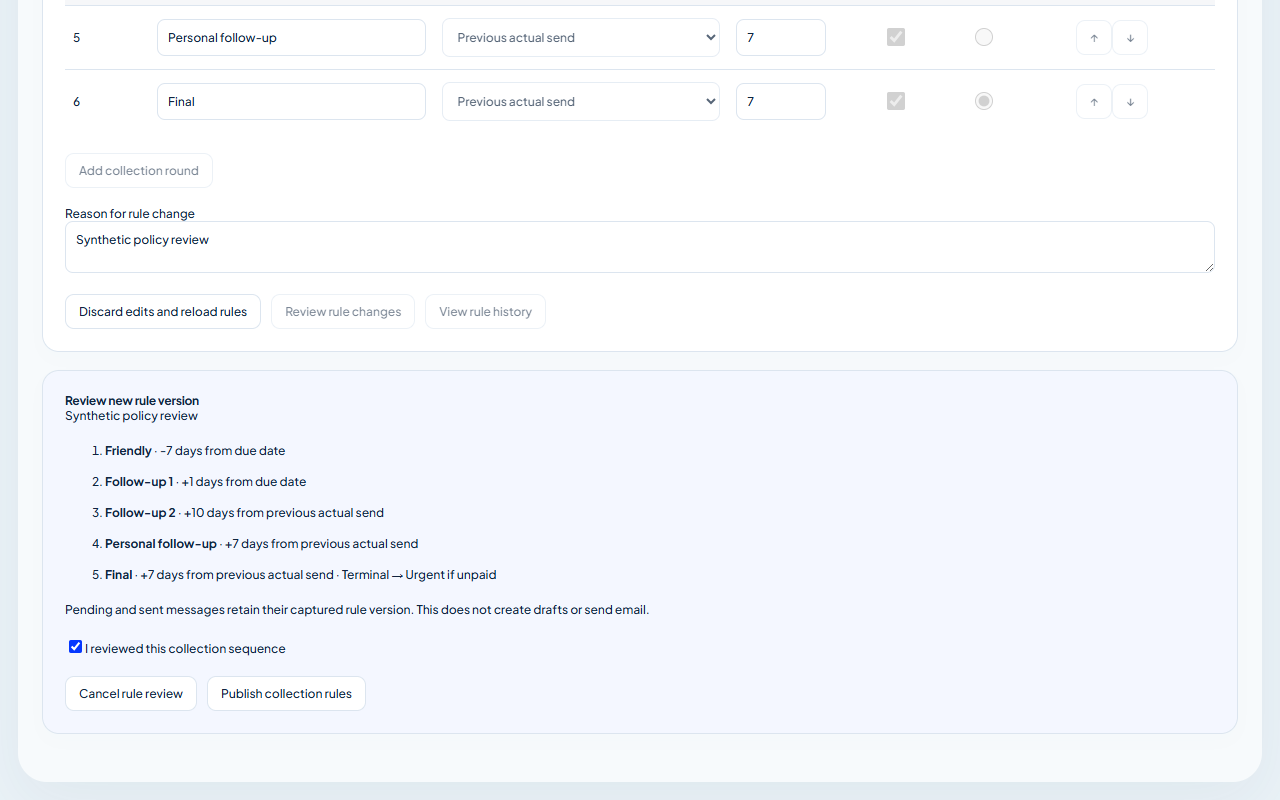
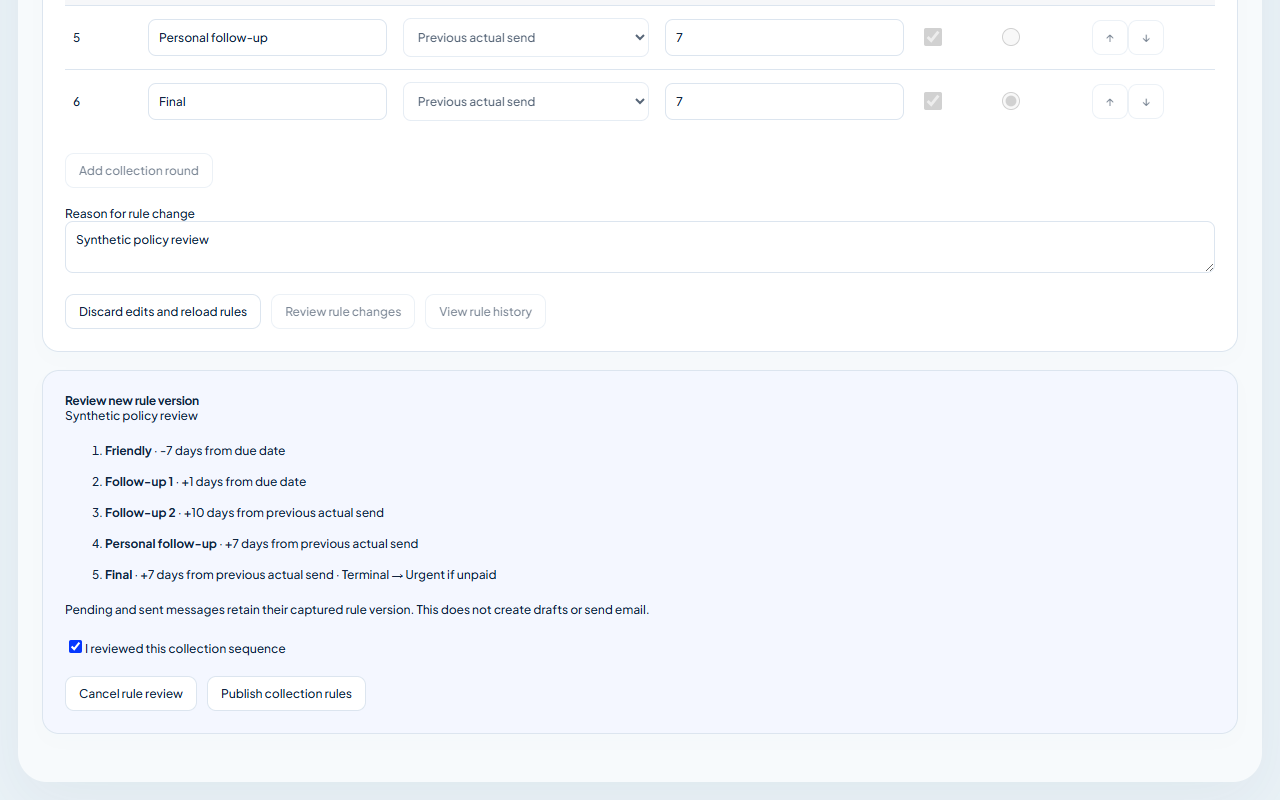
fix: preserve typed collection offsets and verify payment signs

diff --git a/src/collection/CollectionPolicySettings.tsx b/src/collection/CollectionPolicySettings.tsx
@@ -4,22 +4,23 @@ import {useCollectionPolicy} from './PolicyContext';
 import './collection-policy.css';
 export default function CollectionPolicySettings({token,onBack,onDirtyChange}:{token:string;onBack:()=>void;onDirtyChange?:(value:boolean)=>void}){
  const current=useCollectionPolicy(),[saved,setSaved]=useState<CollectionPolicy|null>(null),[rounds,setRounds]=useState<CollectionRound[]>([]),[reason,setReason]=useState(''),[error,setError]=useState(''),[status,setStatus]=useState(''),[busy,setBusy]=useState(false),[preview,setPreview]=useState<PolicyCommand|null>(null),[pending,setPending]=useState<PolicyCommand|null>(null),[confirmed,setConfirmed]=useState(false);
+ const [dayEdits,setDayEdits]=useState<Record<string,string>>({});
  const [history,setHistory]=useState<{rows:(CollectionPolicy&{reason:string;recordedAt:string})[];total:number}|null>(null),[historyPage,setHistoryPage]=useState(0);
  const auth=useRef(token);auth.current=token;const callbacks=useRef({onDirtyChange});callbacks.current={onDirtyChange};const lock=useRef(false),alive=useRef(true);
- const dirty=!!saved&&(JSON.stringify(saved.rounds)!==JSON.stringify(rounds)||!!reason.trim())||!!preview||!!pending;
+ const dirty=!!saved&&(JSON.stringify(saved.rounds)!==JSON.stringify(rounds)||Object.entries(dayEdits).some(([key,value])=>value!==String(rounds.find(r=>r.key===key)?.offsetDays))||!!reason.trim())||!!preview||!!pending;
  useEffect(()=>{callbacks.current.onDirtyChange?.(dirty);},[dirty]);useEffect(()=>{alive.current=true;return()=>{alive.current=false;callbacks.current.onDirtyChange?.(false);};},[]);
- useEffect(()=>{if(!saved&&current.policy){setSaved(current.policy);setRounds(current.policy.rounds);}},[current.policy]);
+ useEffect(()=>{if(!saved&&current.policy){setSaved(current.policy);setRounds(current.policy.rounds);setDayEdits({});}},[current.policy]);
  function change(index:number,patch:Partial<CollectionRound>){setRounds(rows=>rows.map((r,i)=>i===index?{...r,...patch}:r));setStatus('');}
  function move(index:number,step:number){const next=[...rounds],other=index+step;if(other<0||other>=next.length)return;[next[index],next[other]]=[next[other],next[index]];setRounds(next);}
  function add(){const next=[...rounds],terminal=next.findIndex(r=>r.active&&r.terminal),round:CollectionRound={key:`round_${crypto.randomUUID()}`,label:'New follow-up',anchor:'previous_sent',offsetDays:7,terminal:false,active:true};next.splice(terminal<0?next.length:terminal,0,round);setRounds(next);}
- function review(){if(!saved)return;try{parseCollectionPolicy({version:saved.version,rounds},saved);setPreview(parsePolicyCommand({commandId:crypto.randomUUID(),revision:saved.version,confirmed:true,reason,rounds}));setConfirmed(false);setError('');}catch{setError('Give each active round a unique label, keep due-date offsets increasing before follow-ups, and mark only the last active round as terminal. Enter a reason. Retire a round instead of removing its history.');}}
- async function publish(command:PolicyCommand){if(lock.current)return;lock.current=true;setBusy(true);setPending(command);setPreview(null);setError('');try{const r=await fetch('/api/collection-policy',{method:'PUT',headers:{Authorization:`Bearer ${auth.current}`,'Content-Type':'application/json'},body:JSON.stringify(command)});const value=await r.json();if(!r.ok){const code=value&&typeof value==='object'&&'error'in value?value.error:null;if(code==='policy_revision_conflict'||code==='policy_invalid'||code==='policy_retirement_required'){setPending(null);throw Error('Rules changed or need correction. Reload the current version before publishing. Your edits are retained.');}throw Error('The publish result is uncertain. Retry the same command.');}const next=parseCollectionPolicy(value);if(alive.current){setSaved(next);setRounds(next.rounds);setReason('');setPending(null);setStatus(`Collection rules version ${next.version} saved. Existing sent history is retained.`);await current.refresh();}}catch(e){if(alive.current)setError(e instanceof Error?e.message:'Rules could not be published.');}finally{lock.current=false;if(alive.current)setBusy(false);}}
+ function review(){if(!saved)return;try{const edited=rounds.map(r=>{const raw=dayEdits[r.key]??String(r.offsetDays);if(!/^-?[0-9]+$/.test(raw))throw Error('invalid days');return {...r,offsetDays:Number(raw)};});parseCollectionPolicy({version:saved.version,rounds:edited},saved);setPreview(parsePolicyCommand({commandId:crypto.randomUUID(),revision:saved.version,confirmed:true,reason,rounds:edited}));setConfirmed(false);setError('');}catch{setError('Give each active round a unique label, keep due-date offsets increasing before follow-ups, and mark only the last active round as terminal. Enter a reason. Retire a round instead of removing its history.');}}
+ async function publish(command:PolicyCommand){if(lock.current)return;lock.current=true;setBusy(true);setPending(command);setPreview(null);setError('');try{const r=await fetch('/api/collection-policy',{method:'PUT',headers:{Authorization:`Bearer ${auth.current}`,'Content-Type':'application/json'},body:JSON.stringify(command)});const value=await r.json();if(!r.ok){const code=value&&typeof value==='object'&&'error'in value?value.error:null;if(code==='policy_revision_conflict'||code==='policy_invalid'||code==='policy_retirement_required'){setPending(null);throw Error('Rules changed or need correction. Reload the current version before publishing. Your edits are retained.');}throw Error('The publish result is uncertain. Retry the same command.');}const next=parseCollectionPolicy(value);if(alive.current){setSaved(next);setRounds(next.rounds);setDayEdits({});setReason('');setPending(null);setStatus(`Collection rules version ${next.version} saved. Existing sent history is retained.`);await current.refresh();}}catch(e){if(alive.current)setError(e instanceof Error?e.message:'Rules could not be published.');}finally{lock.current=false;if(alive.current)setBusy(false);}}
  async function loadHistory(page:number){setBusy(true);setError('');try{const r=await fetch(`/api/collection-policy/history?page=${page}&limit=10`,{headers:{Authorization:`Bearer ${auth.current}`}});if(!r.ok)throw Error();const v=await r.json() as {rows:(CollectionPolicy&{reason:string;recordedAt:string})[];total:number};if(alive.current){setHistory(v);setHistoryPage(page);}}catch{if(alive.current)setError('Rule history is unavailable. Retry the read.');}finally{if(alive.current)setBusy(false);}}
  return <main className="page collection-policy"><button onClick={onBack}>Back to Collections</button><header><div><h1>Collection rules</h1><p>One versioned sequence for KAT and TSK. People choose when to send.</p></div>{saved&&<span>Editing version {saved.version}</span>}</header>
   {!saved?<section className="panel policy-panel"><p role="status">{current.loading?'Loading collection rules…':current.error||'Collection rules unavailable.'}</p><button onClick={current.refresh}>Retry loading rules</button></section>:<section className="panel policy-panel"><p>Offsets use calendar days. After an actual terminal reminder, any remaining open balance is urgent immediately. A hold or review can block new handoff while urgent remains visible.</p>
-  <div className="policy-table-scroll" role="region" aria-label="Collection round editor" tabIndex={0}><table><thead><tr>{['Order','Round label','Timing from','Days','Active','Terminal','Move'].map(s=><th key={s}>{s}</th>)}</tr></thead><tbody>{rounds.map((round,i)=><tr key={round.key} className={round.active?'':'retired'}><td>{i+1}</td><td><input aria-label={`Round ${i+1} label`} value={round.label} maxLength={80} onChange={e=>change(i,{label:e.target.value})} disabled={busy||!!pending||!!preview}/>{!round.active&&<small>Retired · history retained</small>}</td><td><select aria-label={`Round ${i+1} timing`} value={round.anchor} onChange={e=>change(i,{anchor:e.target.value as CollectionRound['anchor']})} disabled={busy||!!pending||!!preview}><option value="due">Due date</option><option value="previous_sent">Previous actual send</option></select></td><td><input aria-label={`Round ${i+1} days`} type="number" value={round.offsetDays} min={round.anchor==='due'?-365:0} max={3650} onChange={e=>change(i,{offsetDays:Number(e.target.value)})} disabled={busy||!!pending||!!preview}/></td><td><input type="checkbox" aria-label={`Round ${i+1} active`} checked={round.active} onChange={e=>change(i,{active:e.target.checked})} disabled={busy||!!pending||!!preview}/></td><td><input type="radio" name="terminal-round" aria-label={`Round ${i+1} terminal`} checked={round.terminal} onChange={()=>setRounds(rows=>rows.map((r,n)=>({...r,terminal:n===i})))} disabled={busy||!!pending||!!preview||!round.active}/></td><td><button aria-label={`Move round ${i+1} earlier`} disabled={!i||busy||!!pending||!!preview} onClick={()=>move(i,-1)}>↑</button><button aria-label={`Move round ${i+1} later`} disabled={i===rounds.length-1||busy||!!pending||!!preview} onClick={()=>move(i,1)}>↓</button></td></tr>)}</tbody></table></div>
+  <div className="policy-table-scroll" role="region" aria-label="Collection round editor" tabIndex={0}><table><thead><tr>{['Order','Round label','Timing from','Days','Active','Terminal','Move'].map(s=><th key={s}>{s}</th>)}</tr></thead><tbody>{rounds.map((round,i)=><tr key={round.key} className={round.active?'':'retired'}><td>{i+1}</td><td><input aria-label={`Round ${i+1} label`} value={round.label} maxLength={80} onChange={e=>change(i,{label:e.target.value})} disabled={busy||!!pending||!!preview}/>{!round.active&&<small>Retired · history retained</small>}</td><td><select aria-label={`Round ${i+1} timing`} value={round.anchor} onChange={e=>change(i,{anchor:e.target.value as CollectionRound['anchor']})} disabled={busy||!!pending||!!preview}><option value="due">Due date</option><option value="previous_sent">Previous actual send</option></select></td><td><input aria-label={`Round ${i+1} days`} type="text" inputMode="numeric" value={dayEdits[round.key]??String(round.offsetDays)} onChange={e=>setDayEdits(values=>({...values,[round.key]:e.target.value}))} disabled={busy||!!pending||!!preview}/></td><td><input type="checkbox" aria-label={`Round ${i+1} active`} checked={round.active} onChange={e=>change(i,{active:e.target.checked})} disabled={busy||!!pending||!!preview}/></td><td><input type="radio" name="terminal-round" aria-label={`Round ${i+1} terminal`} checked={round.terminal} onChange={()=>setRounds(rows=>rows.map((r,n)=>({...r,terminal:n===i})))} disabled={busy||!!pending||!!preview||!round.active}/></td><td><button aria-label={`Move round ${i+1} earlier`} disabled={!i||busy||!!pending||!!preview} onClick={()=>move(i,-1)}>↑</button><button aria-label={`Move round ${i+1} later`} disabled={i===rounds.length-1||busy||!!pending||!!preview} onClick={()=>move(i,1)}>↓</button></td></tr>)}</tbody></table></div>
   <button disabled={busy||!!pending||!!preview||rounds.length>=100} onClick={add}>Add collection round</button><label>Reason for rule change<textarea value={reason} onChange={e=>setReason(e.target.value)} rows={2} maxLength={1000} disabled={busy||!!pending||!!preview}/></label>
-  <footer><button disabled={busy||!!pending} onClick={async()=>{if(dirty&&!window.confirm('Discard rule edits and load the current version?'))return;setSaved(null);setRounds([]);setReason('');setPreview(null);await current.refresh();}}>Discard edits and reload rules</button><button disabled={busy||!!pending||!!preview} onClick={review}>Review rule changes</button><button disabled={busy||!!pending||!!preview} onClick={()=>loadHistory(0)}>View rule history</button></footer></section>}
+  <footer><button disabled={busy||!!pending} onClick={async()=>{if(dirty&&!window.confirm('Discard rule edits and load the current version?'))return;setSaved(null);setRounds([]);setDayEdits({});setReason('');setPreview(null);await current.refresh();}}>Discard edits and reload rules</button><button disabled={busy||!!pending||!!preview} onClick={review}>Review rule changes</button><button disabled={busy||!!pending||!!preview} onClick={()=>loadHistory(0)}>View rule history</button></footer></section>}
   {preview&&<section className="panel policy-confirm" aria-label="Review collection rule changes"><h2>Review new rule version</h2><p>{preview.reason}</p><ol>{preview.rounds.filter(r=>r.active).map(r=><li key={r.key}><b>{r.label}</b> · {r.offsetDays>=0?'+':''}{r.offsetDays} days from {r.anchor==='due'?'due date':'previous actual send'}{r.terminal?' · Terminal → Urgent if unpaid':''}</li>)}</ol><p>Pending and sent messages retain their captured rule version. This does not create drafts or send email.</p><label><input type="checkbox" checked={confirmed} onChange={e=>setConfirmed(e.target.checked)}/>I reviewed this collection sequence</label><button onClick={()=>setPreview(null)}>Cancel rule review</button><button disabled={!confirmed||busy} onClick={()=>publish(preview)}>Publish collection rules</button></section>}
   {pending&&<button disabled={busy} onClick={()=>publish(pending)}>Retry same rule command</button>}{error&&<p className="error-message" role="alert">{error}</p>}{status&&<p role="status">{status}</p>}
   {history&&<section className="panel policy-panel"><h2>Rule history</h2>{history.rows.map(v=><details key={v.version}><summary>Version {v.version} · {v.reason}</summary><ol>{v.rounds.map(r=><li key={r.key}>{r.label} · {r.active?'Active':'Retired'} · {r.offsetDays} days</li>)}</ol></details>)}<button disabled={busy||!historyPage} onClick={()=>loadHistory(historyPage-1)}>Previous rule versions</button><button disabled={busy||(historyPage+1)*10>=history.total} onClick={()=>loadHistory(historyPage+1)}>More rule versions</button></section>}

diff --git a/worker/opera/financial-diagnostic.ts b/worker/opera/financial-diagnostic.ts
@@ -11,7 +11,7 @@ interface DateCount {present:number;withinWindow:number}
 type DateField='transactionDate'|'postingDate'|'revenueDate'|'transferDate'|'closeDate';
 type DateFields=Record<DateField,DateCount>;
 interface FieldShape {type:'null'|'array'|'object'|'string'|'number'|'boolean'|'undefined';count?:number;sample?:FieldShape;fields?:Record<string,FieldShape>}
-interface MappingCorroboration {sampled:number;candidateIds:number;idsInWindow:number;paymentDetailsFound:number;originalAmountMatches:number;postingDateMatches:number;paymentTransactionDateMatches:number;sourceInvoiceConfirmed:boolean;acceptedAsMapping:false;errors:number}
+interface MappingCorroboration {sampled:number;candidateIds:number;idsInWindow:number;paymentDetailsFound:number;originalAmountMatches:number;originalAbsolutePaymentMatches:number;originalInvoiceAmountMatches:number;appliedWithinPaymentAmount:number;appliedWithinInvoiceOriginal:number;paymentNegative:number;appliedPositive:number;postingDateMatches:number;paymentTransactionDateMatches:number;sourceInvoiceConfirmed:boolean;acceptedAsMapping:false;errors:number}
 interface MappingCheck {status:'no_candidate'|'read'|'unavailable';links:number|null;knownAmounts:number|null;paymentLinksSeenInWindow:number|null;invoiceDatesPresent:number|null;applicationDatesPresent:0;complete:false;error?:DiagnosticError;shape?:FieldShape;identityChecks?:{sampled:number;hotelMatches:number;invoiceTransactionMatches:number;paymentIdentityPresent:number};parseStage?:string|null;corroboration?:MappingCorroboration}
 export interface FinancialDiagnosticSample {
  sample:number;status:'checked'|'unavailable';sameMembership:boolean|null;sameValues:boolean|null;
@@ -52,11 +52,11 @@ function mappingIdentityChecks(value:unknown,hotel:string,invoiceId:string){
  return {sampled:records.length,hotelMatches:records.filter(row=>row.hotelId===hotel).length,invoiceTransactionMatches:records.filter(row=>String(row.transactionNo)===invoiceId).length,paymentIdentityPresent:records.filter(row=>row.paymentTrxNo!==undefined&&row.paymentTrxNo!==null).length};
 }
 const parserStages=new Set(['financial_shape','financial_details','financial_hotel_scope','financial_account_scope','financial_mapping_identity','financial_transaction_identity','financial_identifier','financial_text','financial_currency','financial_amount','financial_amount_precision','financial_date','financial_upstream_error','financial_upstream_warning','financial_history_row_budget']);
-async function corroborateSlimMapping(reader:OperaReader,value:unknown,scope:{hotel:FinancialHotel;accountId:string},payments:FinancialPayment[],invoiceConfirmed:boolean,options:FinancialReadOptions):Promise<MappingCorroboration|undefined>{
+async function corroborateSlimMapping(reader:OperaReader,value:unknown,scope:{hotel:FinancialHotel;accountId:string},payments:FinancialPayment[],sourceInvoice:FinancialInvoice|null,options:FinancialReadOptions):Promise<MappingCorroboration|undefined>{
  const details=value&&typeof value==='object'&&'details'in value&&Array.isArray(value.details)?value.details:[];
  const candidates=details.filter(row=>row&&typeof row==='object'&&!Object.hasOwn(row,'paymentTrxNo')&&Object.hasOwn(row,'transactionNo')).slice(0,3) as Record<string,unknown>[];
  if(!candidates.length)return undefined;
- const result:MappingCorroboration={sampled:candidates.length,candidateIds:0,idsInWindow:0,paymentDetailsFound:0,originalAmountMatches:0,postingDateMatches:0,paymentTransactionDateMatches:0,sourceInvoiceConfirmed:invoiceConfirmed,acceptedAsMapping:false,errors:0};
+ const result:MappingCorroboration={sampled:candidates.length,candidateIds:0,idsInWindow:0,paymentDetailsFound:0,originalAmountMatches:0,originalAbsolutePaymentMatches:0,originalInvoiceAmountMatches:0,appliedWithinPaymentAmount:0,appliedWithinInvoiceOriginal:0,paymentNegative:0,appliedPositive:0,postingDateMatches:0,paymentTransactionDateMatches:0,sourceInvoiceConfirmed:sourceInvoice!==null,acceptedAsMapping:false,errors:0};
  const windowIds=new Set(payments.map(payment=>payment.transactionId));
  for(const row of candidates){
   const rawId=row.transactionNo;
@@ -65,7 +65,14 @@ async function corroborateSlimMapping(reader:OperaReader,value:unknown,scope:{ho
   try{
    const detail=await readFinancialTransactionDetail(reader,{...scope,kind:'payment',transactionId:id},options);
    if(detail.status!=='found'||detail.transaction?.kind!=='payment')continue;result.paymentDetailsFound++;
-   const original=parseFinancialMoney(row.originalAmount),payment=detail.transaction;
+   const original=parseFinancialMoney(row.originalAmount),applied=parseFinancialMoney(row.appliedAmount),payment=detail.transaction;
+   const magnitude=(value:string)=>BigInt(value.replace('-','').replace('.',''));
+   if(payment.amount?.startsWith('-'))result.paymentNegative++;
+   if(applied!==null&&!applied.startsWith('-')&&magnitude(applied)>0n)result.appliedPositive++;
+   if(original!==null&&payment.amount!==null&&magnitude(original)===magnitude(payment.amount))result.originalAbsolutePaymentMatches++;
+   if(original!==null&&sourceInvoice?.originalAmount!==null&&sourceInvoice?.originalAmount!==undefined&&original===sourceInvoice.originalAmount)result.originalInvoiceAmountMatches++;
+   if(applied!==null&&payment.amount!==null&&magnitude(applied)<=magnitude(payment.amount))result.appliedWithinPaymentAmount++;
+   if(applied!==null&&sourceInvoice?.originalAmount!==null&&sourceInvoice?.originalAmount!==undefined&&magnitude(applied)<=magnitude(sourceInvoice.originalAmount))result.appliedWithinInvoiceOriginal++;
    if(original!==null&&payment.amount!==null&&original===payment.amount)result.originalAmountMatches++;
    if(typeof row.postingDate==='string'&&/^\d{4}-\d{2}-\d{2}$/.test(row.postingDate)){
     if(payment.postingDate!==null&&row.postingDate===payment.postingDate)result.postingDateMatches++;
@@ -114,11 +121,11 @@ export async function runFinancialDiagnostic(env:RefreshEnv,hotel:FinancialHotel
    }
    entry.adjacentDays.transactionDatesMatch=dateMatches;entry.adjacentDays.membershipMatchesWindow=membershipMatches;
    if(candidate.invoiceTransactionId!==null){
-    stage='detail';try{const detail=await readFinancialTransactionDetail(reader,{...scope,kind:'invoice',transactionId:candidate.invoiceTransactionId},readOptions);entry.detail={status:detail.status};}catch(e){entry.detail={status:'unavailable',error:error('detail',e)};}
+    stage='detail';let sourceInvoice:FinancialInvoice|null=null;try{const detail=await readFinancialTransactionDetail(reader,{...scope,kind:'invoice',transactionId:candidate.invoiceTransactionId},readOptions);entry.detail={status:detail.status};if(detail.transaction?.kind==='invoice')sourceInvoice=detail.transaction;}catch(e){entry.detail={status:'unavailable',error:error('detail',e)};}
     stage='mapping';try{
      const query={...scope,invoiceTransactionId:candidate.invoiceTransactionId,...(candidate.invoiceNo===null?{}:{invoiceNo:candidate.invoiceNo})};
      const raw=await reader.appliedInvoicePayments(query);entry.mapping.shape=fieldShape(raw);entry.mapping.identityChecks=mappingIdentityChecks(raw,hotel,candidate.invoiceTransactionId);
-     entry.mapping.corroboration=await corroborateSlimMapping(reader,raw,scope,twenty.payments,entry.detail.status==='found',readOptions);
+     entry.mapping.corroboration=await corroborateSlimMapping(reader,raw,scope,twenty.payments,sourceInvoice,readOptions);
      const mapping=parseAppliedPaymentMapping(raw,query,readOptions),paymentIds=new Set(twenty.payments.map(p=>p.transactionId));
      entry.mapping={...entry.mapping,status:'read',links:mapping.links.length,knownAmounts:mapping.links.filter(l=>l.appliedAmount!==null).length,paymentLinksSeenInWindow:mapping.links.filter(l=>paymentIds.has(l.paymentTransactionId)).length,invoiceDatesPresent:mapping.links.filter(l=>l.invoiceTransactionDate!==null).length,applicationDatesPresent:0,complete:false,parseStage:null};
     }catch(e){entry.mapping={...entry.mapping,status:'unavailable',error:error('mapping',e),parseStage:e instanceof OperaError&&e.stage&&parserStages.has(e.stage)?e.stage:null};}

diff --git a/tests/browser/collection-policy.spec.ts b/tests/browser/collection-policy.spec.ts
@@ -4,3 +4,4 @@ const original={version:1,rounds:[{key:'Friendly',label:'Friendly',anchor:'due',
 async function setup(page:Page,unavailable=false){let policy=structuredClone(original);const writes:any[]=[];await page.addInitScript(u=>localStorage.setItem('sb-example-auth-token',JSON.stringify({access_token:'synthetic',refresh_token:'synthetic-refresh',expires_at:Math.floor(Date.now()/1000)+3600,token_type:'bearer',user:u})),user);await page.route('https://example.supabase.co/**',r=>r.fulfill({json:{user}}));await page.route('**/api/**',route=>{const q=route.request(),path=new URL(q.url()).pathname;if(path==='/api/config')return route.fulfill({json:{supabaseUrl:'https://example.supabase.co',publishableKey:'synthetic'}});if(path==='/api/refresh')return route.fulfill({json:{running:false,hotels:[],jobs:[]}});if(path==='/api/portfolio')return route.fulfill({json:{accounts:[],status:'connected',refresh:{running:false,hotels:[]}}});if(path==='/api/collection-policy'){if(unavailable)return route.fulfill({status:503,json:{error:'policy_unavailable'}});if(q.method()==='PUT'){const b=q.postDataJSON();writes.push(b);policy={version:policy.version+1,rounds:b.rounds};}return route.fulfill({json:policy});}if(path==='/api/collection-policy/history')return route.fulfill({json:{rows:[{...policy,reason:'Synthetic review',recordedAt:'2026-09-10'},original],total:2}});if(path==='/api/mail-reconciliation')return route.fulfill({json:{enabled:true,intervalMinutes:15,waiting:0,needsReview:0,last:null}});if(path==='/api/collection-queue')return route.fulfill({json:{rows:[{hotel:'KAT',account_id:'A',id:'I',account_name:'Synthetic queue account',account_type:'Agent',guest:'Synthetic guest',invoice_no:'INV-I',folio_no:'FOL-I',open:100,transaction_date:'2026-08-01',collection_role:'standalone',collection_selectable:true,verification_state:'verified',workflow:{revision:1,credit_term:30,billing_required:true,first_billing_date:'2026-08-01',last_reminder_stage:'Follow 1',last_reminder_date:'2026-09-01',due_date:'2026-08-31'}}]}});return route.fulfill({status:501,json:{error:'unmocked_synthetic_endpoint'}});});return writes;}
 for(const [width,height] of [[1440,900],[1280,800],[390,844]])test(`versioned collection rules ${width}`,async({page})=>{await page.setViewportSize({width,height});const writes=await setup(page);await page.goto('/?collectionPolicy=1');await expect(page.getByLabel('Round 3 days',{exact:true})).toHaveValue('7');await page.getByLabel('Round 3 days',{exact:true}).fill('10');await page.getByRole('button',{name:'Add collection round',exact:true}).click();await page.getByLabel('Round 5 label',{exact:true}).fill('Personal follow-up');await page.getByLabel('Round 4 active',{exact:true}).uncheck();await page.getByLabel('Reason for rule change',{exact:true}).fill('Synthetic policy review');await page.getByRole('button',{name:'Review rule changes',exact:true}).click();expect(writes).toHaveLength(0);await expect(page.getByRole('button',{name:'Publish collection rules',exact:true})).toBeDisabled();await page.getByLabel('I reviewed this collection sequence',{exact:true}).check();await page.screenshot({path:`evidence/collection-policy-${width}.png`});await page.getByRole('button',{name:'Publish collection rules',exact:true}).click();await expect(page.getByRole('status')).toContainText('version 2 saved');expect(writes).toHaveLength(1);expect(writes[0]).toMatchObject({revision:1,confirmed:true});expect(writes[0].rounds[2].offsetDays).toBe(10);expect(writes[0].rounds[3]).toMatchObject({key:'Follow 3',active:false});expect(writes[0].rounds[4]).toMatchObject({label:'Personal follow-up',terminal:false});expect(writes[0].rounds[5].terminal).toBe(true);expect(await page.evaluate(()=>document.documentElement.scrollWidth<=innerWidth+1)).toBe(true);});
 test('missing current rules keep queue debt visible as Needs review',async({page})=>{await setup(page,true);await page.goto('/?collections=1');await expect(page.getByText('Collection rules could not be loaded.',{exact:false})).toBeVisible();await expect(page.getByRole('region',{name:'Prioritized collection work'})).toContainText('Needs review');await expect(page.getByRole('button',{name:'Prepare collection documents',exact:true})).toHaveCount(0);});
+test('negative due offsets can be typed without losing the minus sign',async({page})=>{const writes=await setup(page);await page.goto('/?collectionPolicy=1');const input=page.getByLabel('Round 1 days',{exact:true});await input.fill('');await input.pressSequentially('-14');await expect(input).toHaveValue('-14');await page.getByLabel('Reason for rule change',{exact:true}).fill('Synthetic earlier friendly date');await page.getByRole('button',{name:'Review rule changes',exact:true}).click();await expect(page.getByRole('region',{name:'Review collection rule changes'})).toContainText('-14 days');expect(writes).toHaveLength(0);});

diff --git a/src/collection/collection-policy.css b/src/collection/collection-policy.css
@@ -1,1 +1,1 @@
-.collection-policy header{display:flex;align-items:center;justify-content:space-between;margin:22px 0}.collection-policy header p,.policy-panel p{color:var(--muted);line-height:1.7}.policy-panel,.policy-confirm{padding:22px;margin:18px 0}.policy-table-scroll{overflow:auto;margin:20px 0}.policy-panel table{width:100%;min-width:820px;border-collapse:collapse}.policy-panel th,.policy-panel td{padding:12px 8px;text-align:left;border-bottom:1px solid var(--line);font-size:12px}.policy-panel input:not([type=checkbox]):not([type=radio]),.policy-panel select,.policy-panel textarea{width:100%;padding:10px;border:1px solid var(--line);border-radius:8px;background:white;font:inherit;color:inherit}.policy-panel input[type=number]{max-width:90px}.policy-panel input[type=checkbox],.policy-panel input[type=radio]{width:18px;height:18px}.policy-panel small{display:block;color:var(--muted);margin-top:5px}.policy-panel label{display:block;margin:18px 0;font-size:12px}.policy-panel footer{display:flex;flex-wrap:wrap;gap:10px}.policy-panel .retired{background:#f6f7f9}.policy-confirm{background:#f4f7ff}.policy-confirm li{padding:8px 0}.policy-confirm label{display:block;margin:20px 0}.policy-confirm button{margin-right:10px}.policy-panel details{padding:12px 0;border-bottom:1px solid var(--line)}@media(max-width:600px){.policy-panel,.policy-confirm{padding:16px}.collection-policy header{display:block}.collection-policy button{min-height:44px}.policy-panel footer{flex-direction:column}}
+.collection-policy header{display:flex;align-items:center;justify-content:space-between;margin:22px 0}.collection-policy header p,.policy-panel p{color:var(--muted);line-height:1.7}.policy-panel,.policy-confirm{padding:22px;margin:18px 0}.policy-table-scroll{overflow:auto;margin:20px 0}.policy-panel table{width:100%;min-width:820px;border-collapse:collapse}.policy-panel th,.policy-panel td{padding:12px 8px;text-align:left;border-bottom:1px solid var(--line);font-size:12px}.policy-panel input:not([type=checkbox]):not([type=radio]),.policy-panel select,.policy-panel textarea{width:100%;padding:10px;border:1px solid var(--line);border-radius:8px;background:white;font:inherit;color:inherit}.policy-panel input[inputmode=numeric]{max-width:90px}.policy-panel input[type=checkbox],.policy-panel input[type=radio]{width:18px;height:18px}.policy-panel small{display:block;color:var(--muted);margin-top:5px}.policy-panel label{display:block;margin:18px 0;font-size:12px}.policy-panel footer{display:flex;flex-wrap:wrap;gap:10px}.policy-panel .retired{background:#f6f7f9}.policy-confirm{background:#f4f7ff}.policy-confirm li{padding:8px 0}.policy-confirm label{display:block;margin:20px 0}.policy-confirm button{margin-right:10px}.policy-panel details{padding:12px 0;border-bottom:1px solid var(--line)}@media(max-width:600px){.policy-panel,.policy-confirm{padding:16px}.collection-policy header{display:block}.collection-policy button{min-height:44px}.policy-panel footer{flex-direction:column}}

diff --git a/tests/financial-diagnostic.test.ts b/tests/financial-diagnostic.test.ts
@@ -45,10 +45,10 @@ it('reports allowlisted mapping field types and a static parse stage from a sing
 it('distinguishes mapping currency failure without printing the source currency or amount',async()=>{setup({mappingRaw:{details:[{...invoice,paymentTrxNo:paymentId,appliedAmount:{amount:1000}}]}});const r=await runFinancialDiagnostic(env,'KAT');expect(r.samples[0].mapping).toMatchObject({parseStage:'financial_currency',shape:{fields:{details:{sample:{fields:{appliedAmount:{fields:{amount:{type:'number'}}}}}}}}});expect(JSON.stringify(r.samples[0].mapping)).not.toContain('1000');});
 it('corroborates slim mapping transaction IDs through independent scoped payment detail without accepting them yet',async()=>{
  const calls=setup({mappingRaw:{details:[{transactionNo:Number(paymentId),originalAmount:money('-1000.00'),appliedAmount:money('1000.00'),postingDate:'2026-09-10'}]}});
- const result=await runFinancialDiagnostic(env,'KAT');expect(result.samples[0].mapping).toMatchObject({status:'unavailable',parseStage:'financial_hotel_scope',corroboration:{sampled:1,candidateIds:1,idsInWindow:1,paymentDetailsFound:1,originalAmountMatches:1,postingDateMatches:1,paymentTransactionDateMatches:1,sourceInvoiceConfirmed:true,acceptedAsMapping:false,errors:0}});
+ const result=await runFinancialDiagnostic(env,'KAT');expect(result.samples[0].mapping).toMatchObject({status:'unavailable',parseStage:'financial_hotel_scope',corroboration:{sampled:1,candidateIds:1,idsInWindow:1,paymentDetailsFound:1,originalAmountMatches:1,originalAbsolutePaymentMatches:1,originalInvoiceAmountMatches:0,appliedWithinPaymentAmount:1,appliedWithinInvoiceOriginal:1,paymentNegative:1,appliedPositive:1,postingDateMatches:1,paymentTransactionDateMatches:1,sourceInvoiceConfirmed:true,acceptedAsMapping:false,errors:0}});
  expect(calls.filter(c=>c.url.pathname.includes('/transactions/'+paymentId+'/invoicePaymentDetails'))).toHaveLength(1);expect(JSON.stringify(result)).not.toMatch(/987654321|123456789|1000.00|PRIVATE/);
 });
 it('does not infer payment identity or normalize away mismatching original amounts/dates',async()=>{
  setup({mappingRaw:{details:[{transactionNo:Number(paymentId),originalAmount:money('1000.00'),appliedAmount:money('1000.00'),postingDate:'2026-09-09'}]}});
- const result=await runFinancialDiagnostic(env,'KAT');expect(result.samples[0].mapping).toMatchObject({corroboration:{paymentDetailsFound:1,originalAmountMatches:0,postingDateMatches:0,paymentTransactionDateMatches:0,acceptedAsMapping:false}});
+ const result=await runFinancialDiagnostic(env,'KAT');expect(result.samples[0].mapping).toMatchObject({corroboration:{paymentDetailsFound:1,originalAmountMatches:0,originalAbsolutePaymentMatches:1,originalInvoiceAmountMatches:0,paymentNegative:1,appliedPositive:1,postingDateMatches:0,paymentTransactionDateMatches:0,acceptedAsMapping:false}});
 });

diff --git a/docs/PROJECT_STATUS.md b/docs/PROJECT_STATUS.md
@@ -1,5 +1,12 @@
 # สถานะโครงการใหม่
 
+## Checkpoint ล่าสุด — 10 กันยายน 2026 23:04 ICT: Policy บน Cloudflare และหลักฐาน Payment
+
+- Source **e4f56a85fd397bbf3a59680670f1917c86b4e0f8** Push branch `codex/opera-refresh` และDeployผ่านWranglerจริงบนWorkerเดิม. Worker version **4864f885-3c83-4f55-a916-52408020acab**, Workflow **1e3b0361-c2bf-40eb-a097-8031b0ac47bf**. HealthSHA/Supabaseตรง; anonymousthread/remittance19routesยัง401. ไม่เปลี่ยนSecrets/Cron/บัญชีปลายทาง.
+- Cloudflare browser26กรณีผ่าน รวมPolicy1440/1280/390, Queue, Composer, Reports และGooglePicker origin-only referrer. Browserจริงเปิด `?collectionPolicy=1` อ่านversion1/offsets-7,+1,+7,+7,+7จากSupabaseได้ ไม่Publishกฎสมมติลงข้อมูลจริง. รายละเอียด COLLECTION_POLICY_VERIFICATION.
+- Financial corroboration แบบอ่านจริง: รหัสtransactionในคำตอบapplied-paymentแบบslimตรงกับPayment detailที่อ่านแยกในHotel/Accountเดิม และวันที่ตรง. OriginalAmountยังไม่ตรง signed Payment amount จึงยังไม่ยอมรับเป็นmapping/เปิดingestion. กำลังเพิ่มเฉพาะการเทียบsign/magnitude/Invoice amountแบบcounter ไม่ส่งยอดหรือIDจริงออกlog.
+- พบและแก้การพิมพ์ค่ารอบติดลบในlocalUI (เช่น-14) ที่เดิมเครื่องหมายลบหาย; regressionใหม่ผ่าน. การแก้ย่อยนี้กับdiagnosticถัดไปยังรอPush/Deployรอบต่อไป. Goalยังactive;งานส่วนที่เหลือไม่ได้ถูกตัดออกจากขอบเขต.
+
 ## Checkpoint ระหว่างงาน — 10 กันยายน 2026 22:54 ICT: กฎรอบทวงและความถูกต้องของประวัติ
 
 - Implemented/local browser tested: Collection rules แบบเพิ่ม/เลื่อน/retire/เปลี่ยนวันและชื่อรอบ พร้อม Preview/CAS/command replay; Queue/Composer/Templates/History ใช้policyเดียวกัน. Message claim เก็บpolicyVersionและstage snapshot; รอบTerminalที่ส่งแล้วคงUrgentแม้เปลี่ยนpolicyภายหลัง. ยังไม่สร้างpolicyจริงใหม่เพื่อทดสอบกับบัญชีลูกค้า.

diff --git a/docs/COLLECTION_POLICY_VERIFICATION.md b/docs/COLLECTION_POLICY_VERIFICATION.md
@@ -1,6 +1,8 @@
 # Configurable collection policy verification
 
-Status: implemented; local/browser and hosted SQL verification passed. Worker/frontend deployment is pending at this record. The all-work Goal remains active.
+Status: pushed, deployed and tested on Cloudflare. The all-work Goal remains active.
+
+Source `e4f56a85fd397bbf3a59680670f1917c86b4e0f8`, deployed through Wrangler to the existing `ar-workspace`. Worker version `4864f885-3c83-4f55-a916-52408020acab`; Workflow version `1e3b0361-c2bf-40eb-a097-8031b0ac47bf`. Health matches source and Supabase. Final Cloudflare browser run:26/26 passed, including Picker referrer and current/history report regressions. Existing anonymous thread/remittance boundaries19/19 remained401. Actual authenticated Browser → Worker → Supabase displayed policy version1 with the approved offsets; no policy publication was performed against real data.
 
 ## Behavior and integration
 
